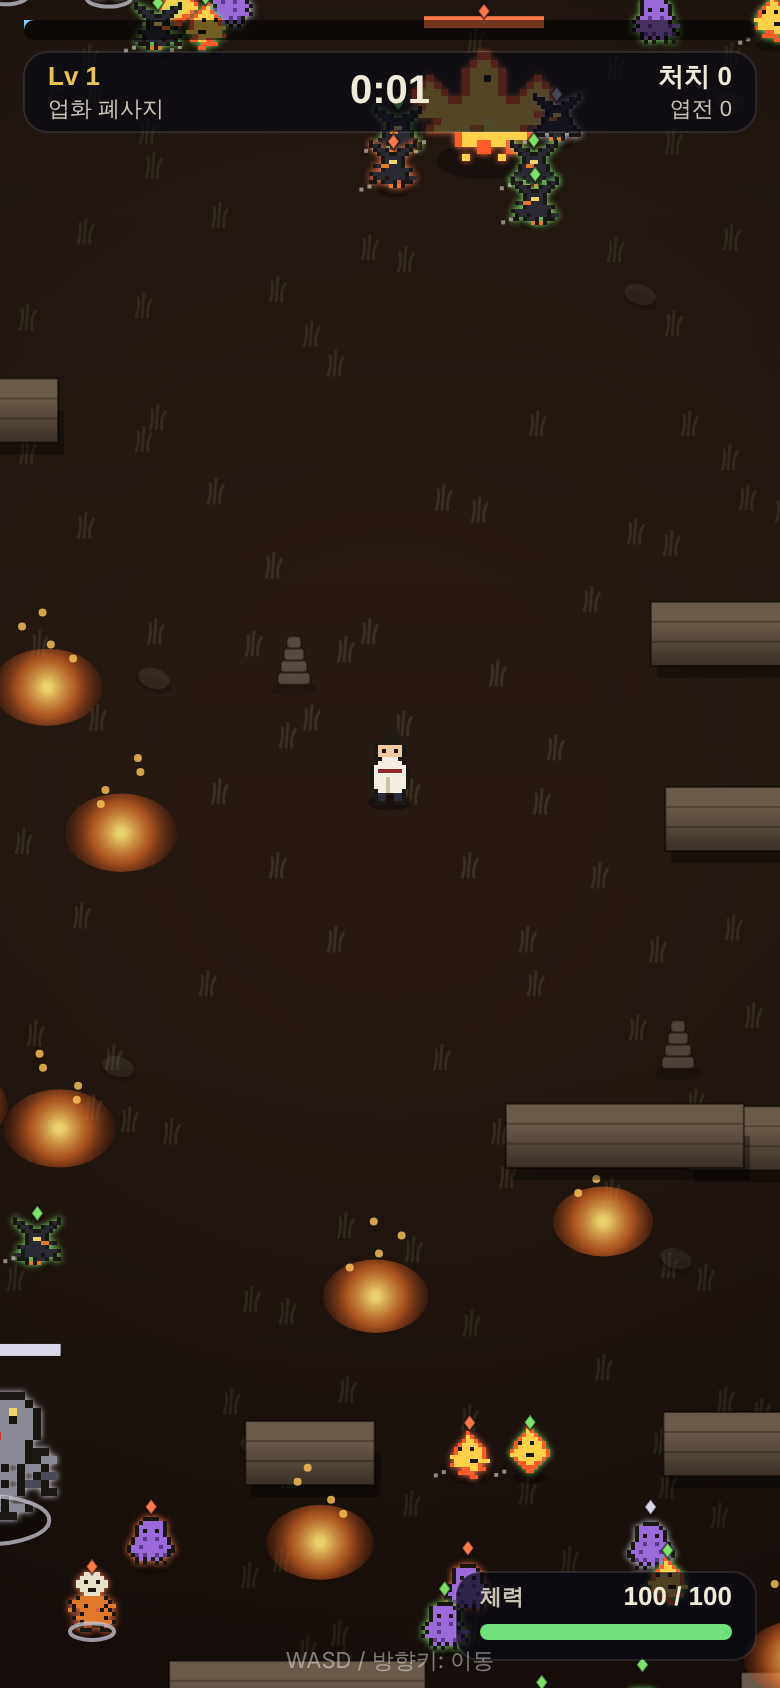
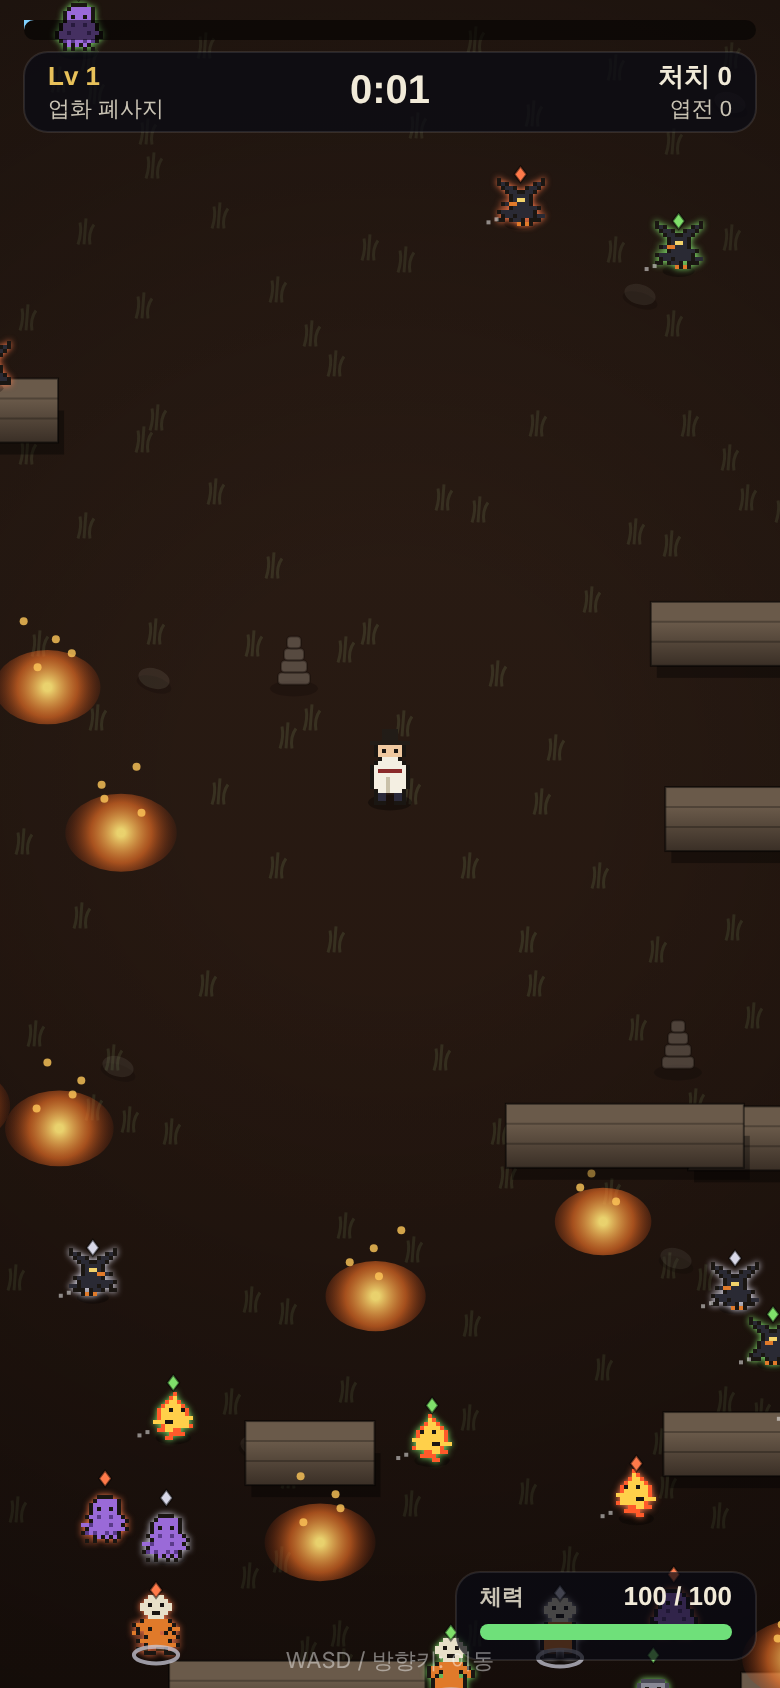
밤의 퇴마사 M5: 땅·번개 무기 6·진화 74·무너진 산성(낙석)·뇌운 봉우리(낙뢰·절벽)·요괴 42·v9
- STRIKES(예고 원→충격) 공통 구조, 번개 연쇄 ARC, 땅 경직
- run-sim-m2 산성·봉우리 게이트 10/10, m5-test 6/6, design §16

Claude-Session: https://claude.ai/code/session_01RmJvEQYZMU41pMZMsu4AKq

diff --git a/docs/04-night-exorcist/design.md b/docs/04-night-exorcist/design.md
@@ -147,3 +147,13 @@ challenge(n) = 1 + 0.975·(1 − 0.86^n)     (밤 단계)
 - 시뮬: 풀수련·숙련 8·맞춤덱·2단 진화 가정으로 NORMAL 클리어, 중간덱 9:23 사망 — ×2.0 이면 중간덱도 깨져서 2.2 유지
 - 버그 메모: `ctx.arc(…, 0, 6.283, true)` 는 반시계로 0.0002rad 만 그린다 — 구멍 뚫기(evenodd)엔 `Math.PI*2` 시계방향
 - 남은 것: 땅·번개 무기 6 + 스테이지 5·6(요괴 14) → 그 뒤 실측·공개
+
+## 16. M5 — 땅·번개 무기 + 스테이지 5·6 (10/03 밤, v9 · 비공개) — 종류 목표 달성
+- **땅·번개 무기 6**(돌팔매·바위 망치·모래 바람 / 벼락 부적·뇌전 창·천둥 북), `unlock:5`. 땅 = 넉백 대신 경직 .4s, 번개 = 맞은 요괴 90px 안 하나에 50% 연쇄(선 이펙트 `ARC`)
+- **진화 74** (2단 60 · 3단 14) — 고리 B 사원소(천지 표창·천지 검·천지 결계) 열림
+- **무너진 산성**(×2.7, 땅·번개·금): 벽 장애물 + **낙석** 2.6초마다 2개(예고 1초, 반경 36, 12). 산까치·흙두더지·갑옷 유령·돌병사·성문 지킴이 / 산성 대장군(땅 heavy)·뇌조(번개 light). 뽑기 24회분
+- **뇌운 봉우리**(×3.2, 번개·빛·화): 상하 폭 260 능선(절벽+구름 바다) + **낙뢰** 1.8초마다 3개(예고 .7초, 반경 30, 14 — 요괴엔 ×1.5). 구름 정령·봉우리 수리·뇌수·먹구름 귀신·바위 거인 / 뇌신(번개)·화룡(화). 뽑기 30회분
+- 낙석·낙뢰는 `STAGES[].strike` 한 구조로(`STRIKES` 리스트, 예고 원 → 충격). 요괴도 맞으니 유인 플레이 가능
+- 시뮬: 산성 = 풀메타·숙련10·맞춤덱·2단 둘(×1.3) NORMAL 클리어, 중간덱 9:25 / 봉우리 = 최적덱·3단(×1.9) SKILLED·NORMAL 클리어, 중간덱 31초 → 봉우리는 "덱이 전부"인 밤. 실측 후 ×3.2 는 손볼 가능성 큼
+- **최종 종류**: 무기 26 + 진화 74 = 100 · 요괴 42 · 스테이지 6 · 패시브 8. 테스트 9세트 PASS, perf p95 3.6ms
+- 다음: 호원 실플레이 → 실측(`balance-query.sql`) → 공개
